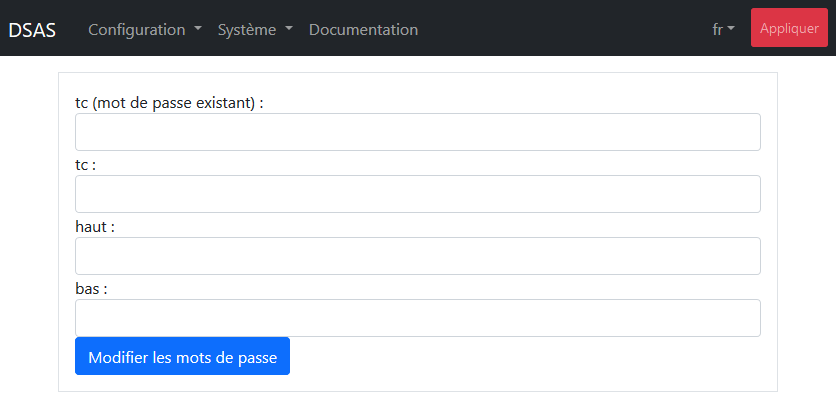
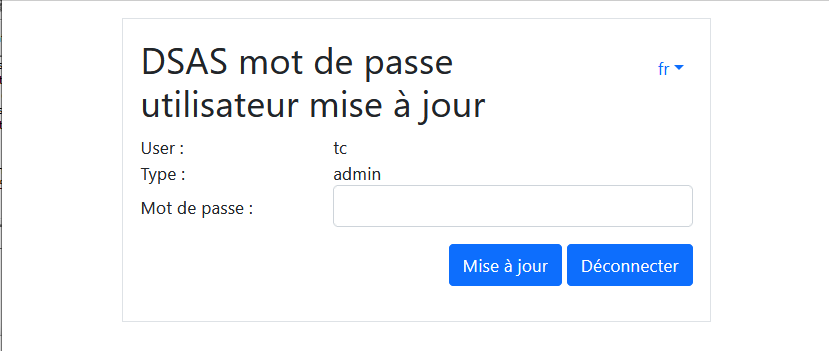
docs: documentation of nominative users

diff --git a/append/usr/local/share/www/service.html b/append/usr/local/share/www/service.html
@@ -31,17 +31,17 @@
             <label data-toggle="tooltip" title="The listening addresses prevent connection from other addresses. The user 'tc' can use ssh and sftp, and the other users are limited to sftp. With an empty value the service is deactivated. A complex example might be '10.0.2.1,10.0.2.128/25,!10.0.2.129'" data-i18n data-i18n-title>Listening address :</label>
           </div>
           <div class="col-12">
-            <label for="user_tc" data-i18n>User tc</label>
+            <label for="user_tc" data-i18n>Administration Users</label>
             <input type="text" id="user_tc" value="" class="form-control">
             <div class="invalid-feedback" id="feed_user_tc"></div>
           </div>
           <div class="col-12">
-            <label for="user_bas" data-i18n>User bas</label>
+            <label for="user_bas" data-i18n>Lower Users</label>
             <input type="text" id="user_bas" value="" class="form-control">
             <div class="invalid-feedback" id="feed_user_bas"></div>
           </div>
           <div class="col-12">
-            <label for="user_haut" data-i18n>User haut</label>
+            <label for="user_haut" data-i18n>Upper Users</label>
             <input type="text" id="user_haut" value="" class="form-control">
             <div class="invalid-feedback" id="feed_user_haut"></div>
           </div>

diff --git a/append/usr/local/share/www/api/dsas-passwd.php b/append/usr/local/share/www/api/dsas-passwd.php
@@ -23,8 +23,8 @@ else if($_SERVER["REQUEST_METHOD"] == "POST"){
             $ret = change_passwd($data["username"], $passwd, $dsas->config->users->hash);
             if ($ret["retval"] != 0) {
               $errors[] = [$name => $ret["stderr"]];
-            } else 
-              if ($user->username === "tc")
+            } else {
+              if ($user->username == "tc")
                 unset($dsas->config->users->first);
 
               // To make the password change permanent across a reboot need to backup

diff --git a/append/usr/local/share/www/api/dsas-users.php b/append/usr/local/share/www/api/dsas-users.php
@@ -54,7 +54,7 @@ else if($_SERVER["REQUEST_METHOD"] == "POST"){
               $ret = change_passwd($data["username"], $passwd, $dsas->config->users->hash);
               if ($ret["retval"] != 0) {
                 $errors[] = [$name => $ret["stderr"]];
-              } else if ($user->username === "tc") {
+              } else if ($user->username == "tc") {
                 unset($dsas->config->users->first);
               }
             }

diff --git a/append/usr/local/share/www/Documentation_fr.md b/append/usr/local/share/www/Documentation_fr.md
@@ -492,47 +492,73 @@ En cliquant `Ok` sur ce message vous serez redirigé vers l'écran de connexion 
 
 ### Changement initiale des mots de passe
 
-Si ceci est votre première connexion au DSAS, un message d'erreur sera affiché et après, 
-l'écran suivant vous sera présenté :
+Si ceci est votre première connexion au DSAS, il faut connecter avec l'utilisateur 'tc',
+un message d'erreur sera affiché et après, l'écran suivant vous sera présenté :
 
 ![Ecran de changement des mots de passe initiale](fr/DSAS2.png)
 
-A votre première connexion, tous les mots de passe sont à changer. Il est impossible de 
-continuer avec l'interface d'administration sans modifier les mots de passes. 
-
-L'écran de changement de mots de passe comporte 4 lignes. Sur la première, le mot de
-passe existant de l'utilisateur __tc__ doit être rentré. Les trois autres lignes 
-concernent les utilisateurs suivants :
-
-- __tc__ - L'utilisateur administrateur du DSAS. Il a tous les privilèges sur le DSAS y compris
-le doit de devenir __root__. Si `ssh` est actif pour l'utilisateur __tc__ il peut se connecter
-avec une interface `ssh` afin de faire de la maintenance avancée sur la DSAS.
-- __bas__ - Cet utilisateur n'a qu'un seul rôle. Si le DSAS est configuré avec 
-`ssh` pour l'utilisateur __bas__ il aura le droit de se connecter en `sftp` et seulement en `sftp`
-depuis la zone sensible. Ceci pourrait être utile pour la récupération des fichiers transmis
-par le DSAS dans certains scenarios. Ne seront présentés à cet utilisateur que des fichiers vérifiés 
-par le DSAS et un [chroot](https://fr.m.wikipedia.org/wiki/Chroot) est utilisé afin d'empêcher 
-l'utilisateur de voir autre chose.
-- __haut__ - Cet utilisateur comme l'utilisateur __bas__ est utilisé pour une connexion en `sftp`
-depuis la zone non sensible afin de permettre la dépôt de fichiers directement sur le DSAS. Il est
-également cloisonné et ne peut voir qu'une zone de dépôt de fichiers. __L'utilisation de cette
-fonctionnalité est fortement déconseillés__ car elle ouvre la possibilité d'attaques contre le DSAS
-
-Donc, en configuration normale seulement l'utilisateur __tc__ est à utiliser. Mais les trois
-mots de passe sont néanmoins à modifier afin d'éliminer l'ensemble des éléments secrets par 
-défaut. Les mots de passe des utilisateurs __bas__ et __haut__ peuvent toujours être modifiés 
-depuis cette interface et si vous ne pensez pas utiliser les fonctions `sftp`, il est recommander 
-de choisir des mots de passe longs et aléatoires pour ces utilisateurs __bas__ et __haut__.
-
-Les limitations imposées sur les mots de passe sont 
+A votre première connexion, le mot de passe du compte 'tc' doit-être changé. Les limitations 
+imposées sur les mots de passe sont 
 
 - ils ont au moins 8 caractères de long (12 recommandés)
 - ils ne contiennent pas d'espaces ni de tabulations
 - Ils contiennent au moins 3 types de caractères (majuscule, minuscule, nombre, caractère spécial)
 
-Rentrez vos nouveaux mots de passe et cliquez sur `Modifier les mots de passe`. 
+Rentrez vos nouveau mot de passe et cliquez sur `Mise à jour`. Vous pouvez maintenant cliquer
+sur `Deconnecter` et en réconectant vous auriez accès à l'interface d'adminsitration.
+ 
+### Configuration des utilisatuers
 
-![Ecran en cas de modification réussie de changement des mots de passe](fr/DSAS4.png)
+L'écran de configuration des utilisateurs est accédé depuis le onglet `Configuration` et 
+l'option `Utilisateurs`. L'écran de configuration se presente comme
+
+![Menu de configuration des utilisateurs du DSAS](fr/DSAS34.png)
+
+A la premiere utilisation, seulement l'utilisateur par défaut `tc` est configuré. Il est 
+récommandé de créer des comptes nominative pour chaque utilisateur et de désactiver le 
+compte `tc`. L'utilisateur `tc` est le seul avec le droit de devenir `root` sur la DSAS. 
+Si le compte `tc` est désactivé les autres utilisateurs pourrait quand devenir `root` avec
+la conaissance de la mot de passe de l'utilisateur `tc`. Un utilsiateur désactivé ne pourrait
+que connecté depuis la console du DSAS.
+
+Un noveau compte est créer en cliquant sur la bouton ![](fr/DSAS23.png) à droit de l'écran. 
+Vous seriez demandé de rentrer le nom de l'utilisateur comme
+
+![Ecran d'ajout de nouveau utilisateur](fr/DSAS35.png)
+
+Les noms d'utilisateurs de devraientt contenir que des miniscules et de des chiffres. Ici
+nous avons ajouté l'utilisateur `ua12345`
+
+![Menu de configuration des utilisateurs du DSAS](fr/DSAS37.png)
+
+Pour chaque utilisateur nous pourrions plusieurs modifications ou actions
+
+- __Déscription__ - De l'information libre pourrait être ajouté sur l'utilisateur
+- __Type__ - Trois type d'utilisateur sont possible
+  * __administrateur__ - Un utilisateur administrateur du DSAS. Il a tous les privilèges sur le DSAS, 
+si `ssh` est actif pour il peut se connecter avec une interface `ssh` afin de faire de la maintenance 
+avancée sur la DSAS. 
+  * __bas__ - Cet utilisateur n'a qu'un seul rôle. Si le DSAS est configuré avec 
+`ssh` pour l'utilisateur __bas__ il aura le droit de se connecter en `sftp` et seulement en `sftp`
+depuis la zone sensible. Ceci pourrait être utile pour la récupération des fichiers transmis
+par le DSAS dans certains scenarios. Ne seront présentés à cet utilisateur que des fichiers vérifiés 
+par le DSAS et un [chroot](https://fr.m.wikipedia.org/wiki/Chroot) est utilisé afin d'empêcher 
+l'utilisateur de voir autre chose.
+  * __haut__ - Cet utilisateur comme l'utilisateur __bas__ est utilisé pour une connexion en `sftp`
+depuis la zone non sensible afin de permettre la dépôt de fichiers directement sur le DSAS. Il est
+également cloisonné et ne peut voir qu'une zone de dépôt de fichiers. __L'utilisation de cette
+fonctionnalité est fortement déconseillés__ car elle ouvre la possibilité d'attaques contre le DSAS
+- __Active__ - Un compte pourrait existe mais ne pas être fonctionel. Ceci pemettre de temporairement
+désactivé un compte sans le supprimer
+- ![](fr/DSAS39.png) - En cliquant sur cette icone nous pourrions modifier le mot de passe de 
+l'utilisateur
+- ![](fr/DSAS35.png) - En cliquant sur cette icone, l'utilisateur pourrait être supprimé définitivement.
+
+Les modifications fait ne sera pas prise en compte tant que l'utilisateur n'a pas appuyé sur
+la bouton `Sauvegarder les changements`. Un exemple de configuration des utilisateur pourrait
+resemblé à
+
+![Menu de configuration des utilisateurs du DSAS](fr/DSAS38.png)
 
 A ce point il est recommandé d'appuyer sur le bouton `Appliquer` afin de rendre ces 
 modifications permanentes. Sinon au prochain redémarrage les anciens mots de passe seront 
@@ -624,9 +650,9 @@ d'autre service de SSH depuis le zone sensible et/ou non-sensible.
 
 Le serveur OpenSSH n'est jamais démarrer avec des accès ouverts à tous les utilisateurs sur 
 le DSAS. Il faut explicitement donner l'accès a chaque utilisateur, et cet accès n'est valable
-que depuis certain zones de sécurité. Par exemple, ci-dessus le service OpenSSH est coché est 
-l'utilisateur __tc__  peut connecté que depuis des adresses IP dans le sous-réseau 10.0.2.0/24. 
-Les utilisateurs bas et haut n'ont aucun droit d'accès.
+que depuis certain zones de sécurité. Par exemple, ci-dessus le service OpenSSH est coché et 
+les utilisateurs administration  peut connecté que depuis des adresses IP dans le sous-réseau 
+10.0.2.0/24. Les utilisateurs  de type bas et haut n'ont aucun droit d'accès.
 
 Les adresses d'écoute pour chaque utilisateur peuvent être très complexe avec plusieurs adresses 
 possible séparées par des virgules. Un exemple complexe pourrait-être
@@ -642,17 +668,17 @@ réseau du DSAS concerné.
 
 Chaque utilisateur ne peut que connecter depuis certaines zones de sécurité :
 
-- __tc__ - L'utilisateur __tc__ ne peut que connecter depuis la zone sensible et peut 
-connecter en ssh, scp et sftp
-- __bas__ - L'utilisateur bas ne peut que connecter en sftp depuis la zone sensible. Cette
+- __Administration__ - Les utilisateurs de type __Administrateur__ ne peut que connecter depuis la 
+zone sensible et peut  connecter en ssh, scp et sftp
+- __bas__ - Les utilisateurs de type bas ne peut que connecter en sftp depuis la zone sensible. Cette
 fonctionnalité de sftp pourrait être utilisé pour remplacer le serveur http de dépôt
 (ou en complément). Il n'a que accès à la zone du DSAS avec les fichiers vérifiés et ne
 peut pas accéder ailleurs dans le DSAS.
-- __haut__ - `Utilisation du compte haut en SSH en fortement déconseillé`. La raison qu'il est 
-déconseillé est qu'il ne respecte pas le sens de l'ouverture des flux de la zone plus sensible 
+- __haut__ - `Utilisation d'un compte de type haut en SSH en fortement déconseillé`. La raison qu'il 
+est  déconseillé est qu'il ne respecte pas le sens de l'ouverture des flux de la zone plus sensible 
 vers la zone moins sensible. Mais en absence d'autre moyen de téléchargement ce compte ouvre
 la possibilité depuis la zone non sensible à déposer des fichiers sur la machine haute du DSAS.
-L'utilisateur __haut__ n'a accès que en sftp et que à la zone du DSAS avec les fichiers non
+Les utilisateurs de type  __haut__ n'a accès que en sftp et que à la zone du DSAS avec les fichiers non
 vérifiés.
 
 Si le service SSH est activé vers une zone le port 22 est ouverte sur la machine du DSAS
@@ -1339,7 +1365,7 @@ de garantir le niveau de sécurité du DSAS.
 
 ## Les comptes utilisateurs sur la DSAS
 
-Il existe cinq comptes sur la DSAS, avec seulement un avec les droits de 
+Il existe cinq comptes de base sur la DSAS, avec seulement un avec les droits de 
 connexion avec un shell.
 
 | compte | shell      | commentaire                                     |
@@ -1349,6 +1375,8 @@ connexion avec un shell.
 | haut   | /bin/false | Utilisé pour connexion vers zone moins sensible |
 | bas    | /bin/false | Utilisé pour connexion vers zone plus sensible  |
 | verif  | /bin/false | Utilisé que à l'intérieur du DSAS               |
+
+Chaque utilisateur ajouté via l'interface d'adminsitration du DSAS aurait le shell /bin/ash.
 
 ### Les droits d'écriture de chaque utilisateur
 

diff --git a/append/usr/local/share/www/Documentation_en.md b/append/usr/local/share/www/Documentation_en.md
@@ -476,54 +476,79 @@ the following message:
 
 By clicking `Ok` on this message you will be redirected to the DSAS login screen.
 
-## Initial password change
+### Initial password change
 
-If this is your first connection to the DSAS, an error message will be displayed and after
-you will be presented with the following screen:
+If this is your first connection to the DSAS, the password of the user `tc` must
+be changed. Connect with the user `tc` and you will be presented with the following screen:
 
 ![Initial password change screen](en/DSAS2.png)
 
-At your first connection, all passwords must be changed. It is impossible to
-continue with the administration interface without changing the passwords.
-
-The password change screen has 4 lines. On the first, the existing password of user
-__tc__ must be entered. The other three lines concern the following users:
-
-- __tc__ - The administration user of the DSAS. It has all the privileges on the 
-DSAS including the ability to become __root__. If `ssh` is active for user __tc__ 
-it can used to connect with `ssh` for advanced maintenance on the DSAS.
-- __bas__ - This user has only one role. If the DSAS is configured with
-`ssh` for the user __bas__ it will have the right to connect via `sftp` and only via 
-`sftp` from the sensitive zone. This could be useful for the recovery of transmitted files.
-by DSAS in certain scenarios. Only verified files will be shown to this user
-by DSAS and a [chroot](https://fr.m.wikipedia.org/wiki/Chroot) is used to prevent
-the user from seeing anything else.
-- __haut__ - This user, like user __bas__, is used for an `sftp` connection
-from the non-sensitive area to allow files to be uploaded directly to the DSAS. It is 
-also isolated with chroot and can only see the zone where files should be deposited. The
-use of this feature is strongly discouraged as it opens up the possibility of attacks 
-against the DSAS
-
-Therefore, in a normal configuration only the user __tc__ is used. But the three
-passwords must nevertheless be modified in order to eliminate all default secret elements.
-Passwords for users __bas__ and __haut__ can always be changed from this interface later and 
-if you don't plan to use the `sftp` functions, it is recommended to choose long and random 
-passwords for these __bas__ and __haut__ users.
-
-The limitations on passwords are
+It is impossible to continue with the administration interface without changing the 
+password. The limitations on passwords are
 
 - they are at least 8 characters long (12 recommended)
 - they do not contain spaces or tabs
 - They contain at least 3 types of characters (upper case, lower case, number, special character)
 
-Enter your new passwords and click on `Change passwords`.
+Enter your new passwords and click on `Update`. You can now click on `Logout` and after
+logging in again with the user `tc` you will have accès to the adminsitration interface. 
 
-![Screen in case of successful modification of the passwords](en/DSAS4.png)
+
+
+### User Configuration
+
+The user configuratuion screen is found under the tab `System` and the option `Users`. The 
+configuration screen is as follows
+
+![DSAS user configuration menu](en/DSAS34.png)
+
+At the first connection only the default user `tc` is configured. It is recommanded create 
+nominative users account for each user and to deactivate the account `tc`. The user `tc` is
+the only one with the rights to become `root` on the DSAS. Even though the account is déactivate
+it remains usable from the console of the DSAS and other adminsitrative users, knowong the 
+password for the account `tc` can use this knowledge to become `root`.
+
+A new account is created by clicking on the button  ![](en/DSAS23.png) to the right of the
+screen. You will be asked to enter a new user name like
+
+![Add new user screen](en/DSAS35.png)
+
+New user names can only include lower case characters and numbers. Here we have added the 
+user `ua12345`.
+
+![DSAS user configuration menu]](en/DSAS37.png)
+
+For each users several modifications or actions are possible
+
+- __Description__ - Information about the user can be freely added in this field
+- __Type__ _ Three types of users are possible 
+  * __tc__ - An administration user of the DSAS. It has all the privileges on the 
+DSAS, and if `ssh` is active for adminsitrateurs, it can used to connect with `ssh` 
+for advanced maintenance on the DSAS.
+- __bas__ - This type of user has only one role. If the DSAS is configured with
+`ssh` for the user __bas__ it will have the right to connect via `sftp` and only via 
+`sftp` from the sensitive zone. This could be useful for the recovery of transmitted files.
+by DSAS in certain scenarios. Only verified files will be shown to this user
+by DSAS and a [chroot](https://fr.m.wikipedia.org/wiki/Chroot) is used to prevent
+the user from seeing anything else.
+- __haut__ - This type of user, like user __bas__, is used for an `sftp` connection
+from the non-sensitive area to allow files to be uploaded directly to the DSAS. It is 
+also isolated with chroot and can only see the zone where files should be deposited. The
+use of this feature is strongly discouraged as it opens up the possibility of attacks 
+against the DSAS
+- __Active__ - An account can be deactivate without deleting it. This allows for an account to be
+temporarily suspended without deleting it.
+- ![](en/DSAS39.png) - By clicking on this icon, it is possible to change the password of the user.
+- ![](en/DSAS35.png) - By clicking on this icon, it is possible to permenantly delete the user.
+ 
+The modifications will not be taken into account unless the `Save Changes` button has been pressed.
+An example of the user configuration might be 
+
+![DSAS user configuration menu]](en/DSAS38.png)
 
 At this point it is recommended to press the `Apply` button in order to make these
 permanent changes. Otherwise on the next restart the old passwords will be
 requested.  
-
 
 ### Network configuration
 
@@ -610,10 +635,10 @@ between the two DSAS machines, the DSAS administrator can choose to open
 other SSH services from the sensitive and/or non-sensitive zones.
 
 The OpenSSH server is never started with open access to all users on the DSAS. You 
-must explicitly give access to each user, and this access is only valid from certain
+must explicitly give access to each user type, and this access is only valid from certain
 security zones. For example, above the OpenSSH service is checked and the
-user __tc__ can only logged in from IP addresses in the 10.0.2.0/24 subnet.
-__haut__ and __bas__ users have no access rights.
+adminstration users can only logged in from IP addresses in the 10.0.2.0/24 subnet.
+Users of type __upper__ and __lower__ users have no access rights.
 
 Listening addresses for each user can be very complex with multiple addresses
 possible separated by commas. A complex example could be
@@ -629,16 +654,16 @@ concerned.
 
 Each user can only log in from certain sensitvity zones:
 
-- __tc__ - User __tc__ can only connect from the sensitive area and can
-connect with ssh, scp and sftp
-- __bas__ - User __bas__ can only connect with sftp from the sensitive zone. This
+- __Administration__ - The users of type `Administrator` can only connect from the sensitive area 
+and can connect with ssh, scp and sftp
+- __lower__ - The users of type __lower__ can only connect with sftp from the sensitive zone. This
 sftp functionality could be used to replace http server repository (or in addition). It only has 
 access to the DSAS area with the verified files and can not access files elsewhere.
-- __haut__ - `Use of the __haut__ account in SSH and strongly discouraged`. The reason it is
+- __upper__ - `Use users of type __upper__ in SSH and strongly discouraged`. The reason it is
 not recommended is that it does not respect the direction of the initiation of network flows, from
 the more sensitive zone to the less ensitive zone. But in the absence of other means of downloading,
 this account opens the possibility from the non-sensitive zone to deposit files on the upper
-machine of the DSAS. The user __haut__ only has access with sftp and only to the DSAS zones 
+machine of the DSAS. The users of type  __upper__ only have access with sftp and only to the DSAS zones 
 with the unverifed files.
 
 If the SSH service is enabled towards a zone, port 22 is open on the DSAS machine
@@ -1306,7 +1331,7 @@ to ensure its security.
 
 ## The user accounts of the DSAS
 
-There are 5 accounts on the DSAS, with only one have to rights to connect 
+There are 5 default accounts on the DSAS, with only one have to rights to connect 
 with a shell.
 
 | account | shell      | comment                                         |
@@ -1316,6 +1341,9 @@ with a shell.
 | haut    | /bin/false | Used for connection to the non sensitive zone   |
 | bas     | /bin/false | Used for connection to the sensitive zone       |
 | verif   | /bin/false | Used internally to the DSAS                     |
+
+Each user added via the DSAS adminsitration interface will have a sheel `/bin/ash`.
+
 
 ### The zrite permissions of each user
 
